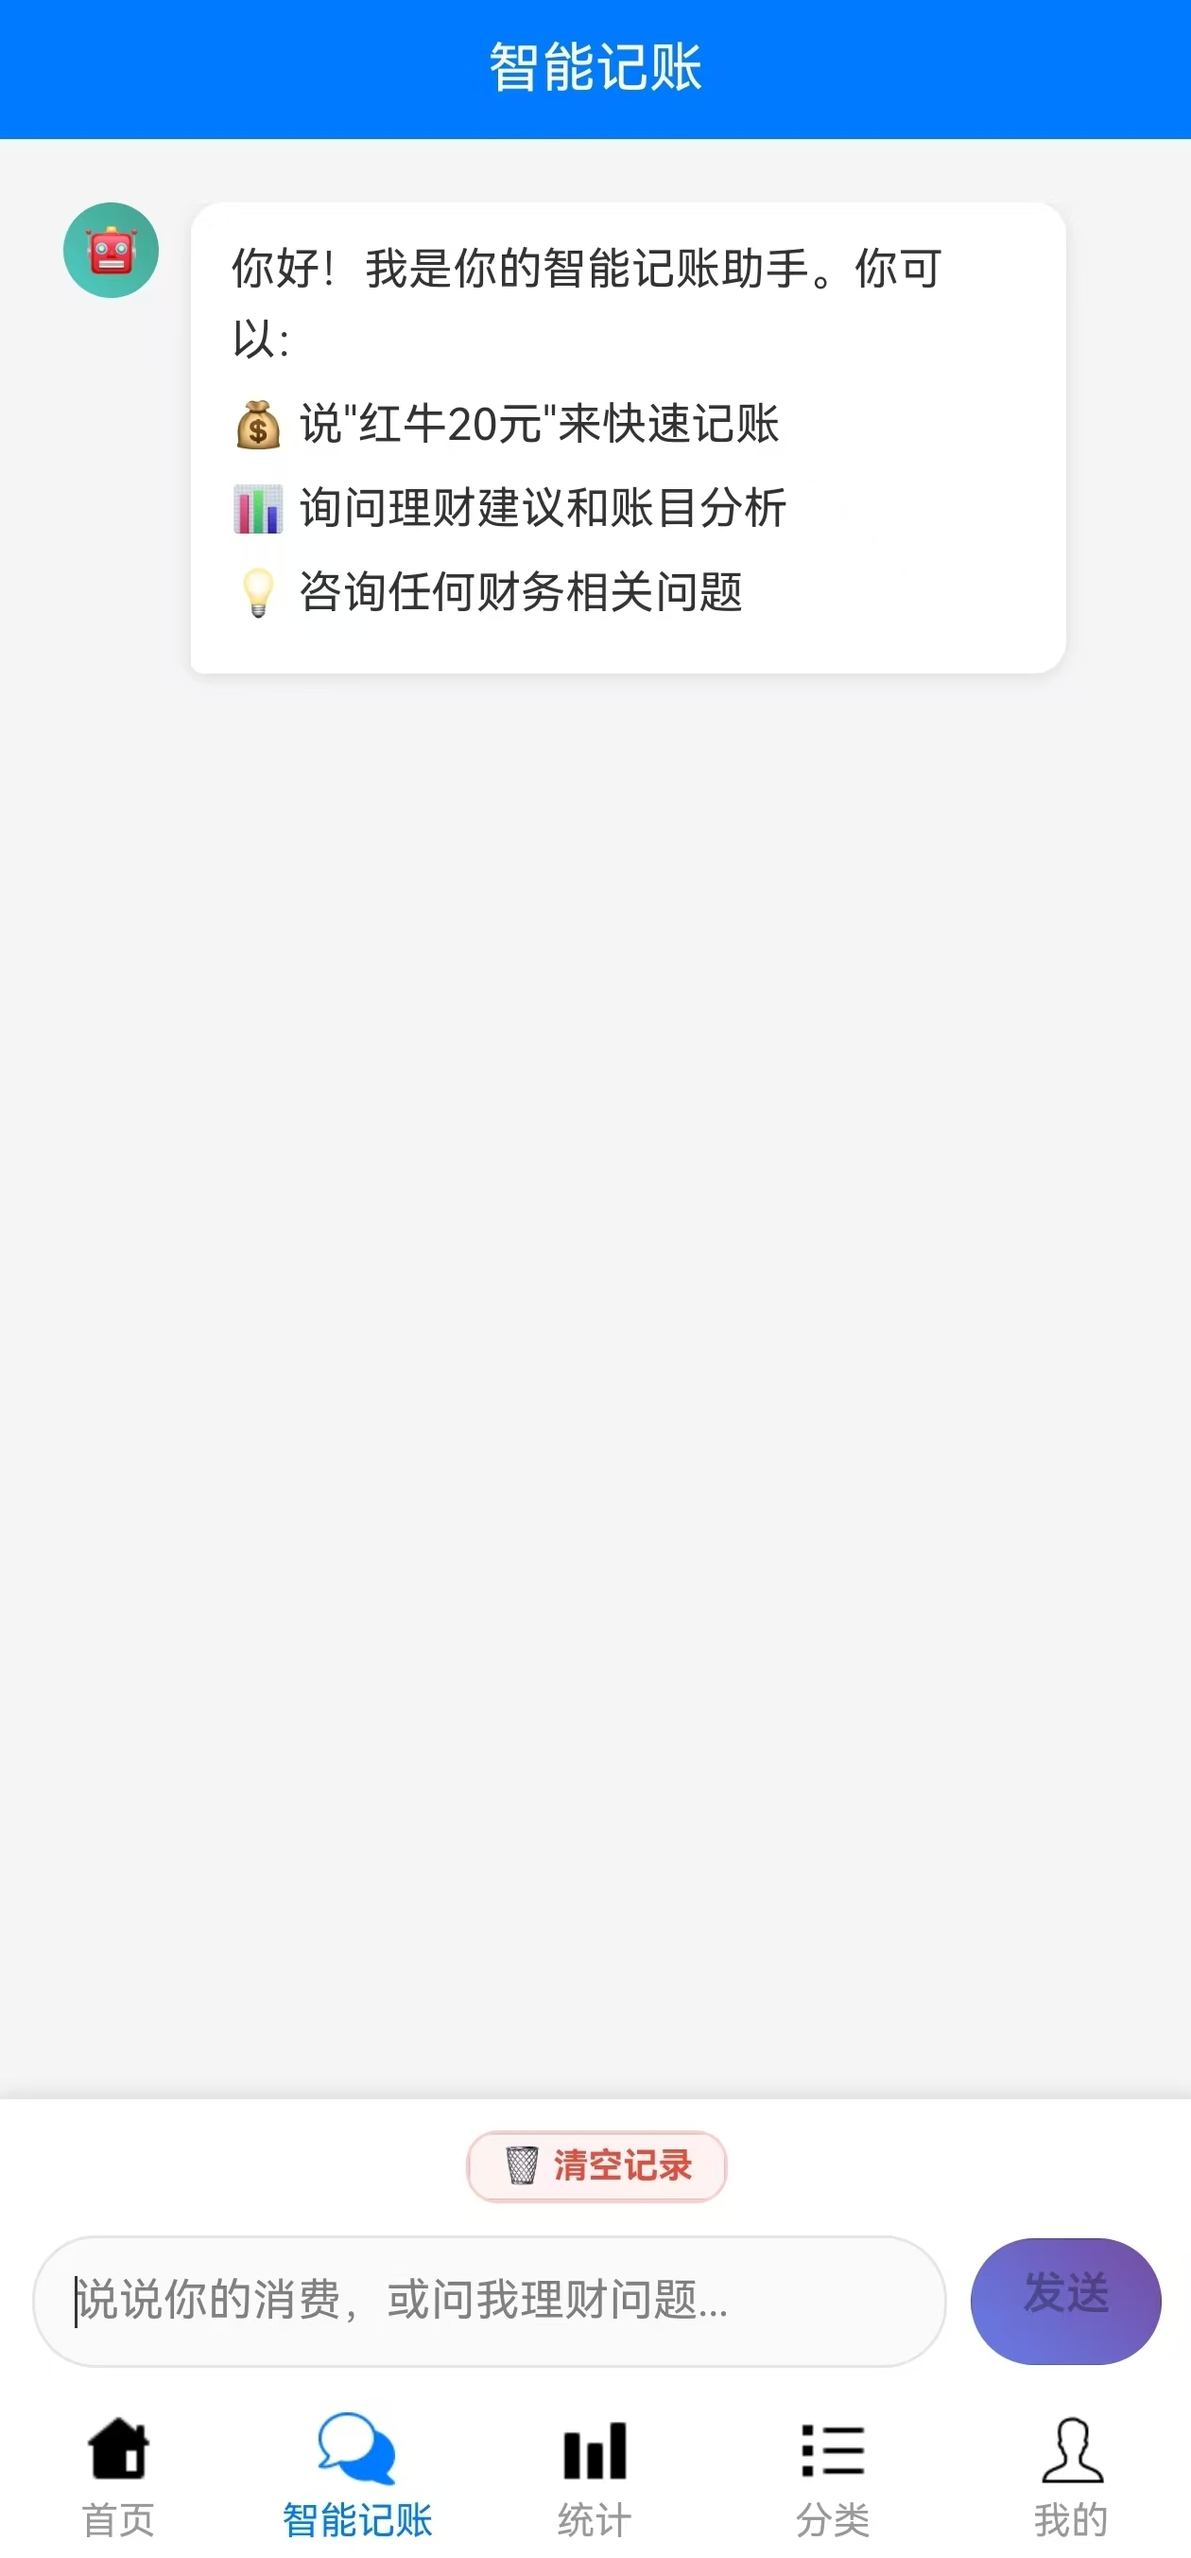
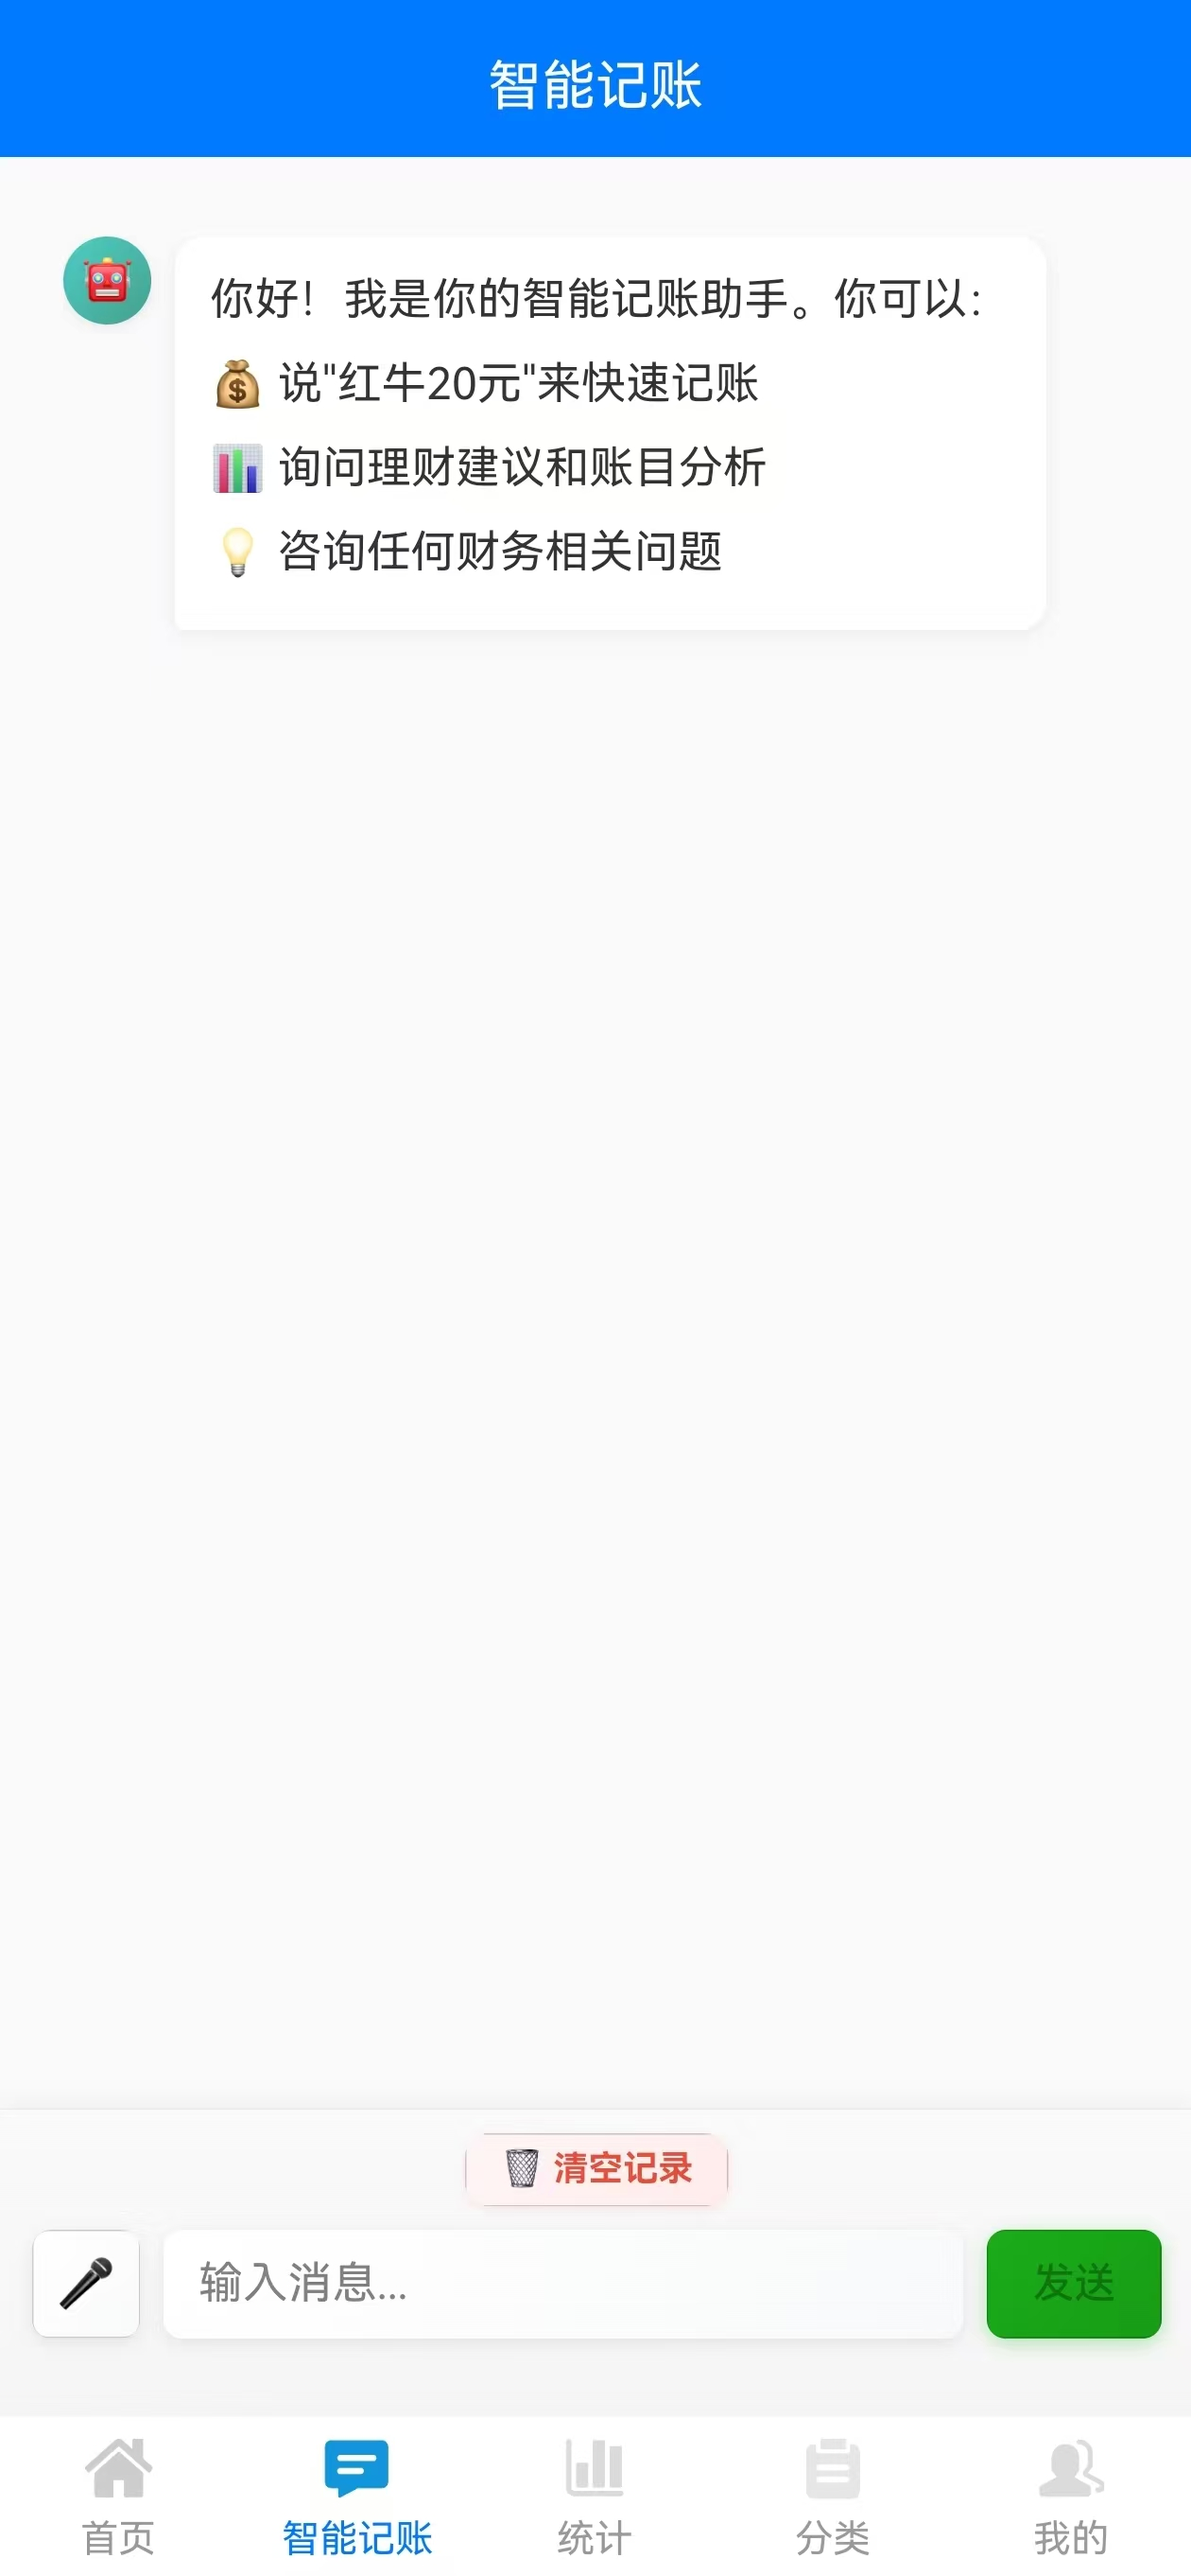
更新说明文档

diff --git a/README.md b/README.md
@@ -31,6 +31,7 @@
 - ✅ 精美UI设计
 - 🆕 **AI智能记账** - 语音/文字输入自动识别记账信息
 - 🆕 **智能体配置** - 自定义AI模型和提示词
+- 🆕 **语音识别** - 支持按住说话功能，自动转换语音为文字
 
 ---
 
@@ -44,7 +45,8 @@
 - 🎨 **精美界面** - 渐变色设计，流畅动画效果
 - 🤖 **AI智能记账** - 自然语言输入，智能解析记账信息
 - ⚙ **智能体配置** - 支持自定义AI模型接口和提示词
-- 🎯 **丰富图标库** - 20+图标，支持自定义分类图标
+- � **语音识别** - 支持按住说话，语音转文字记账
+- �🎯 **丰富图标库** - 20+图标，支持自定义分类图标
 
 ## 🚀 技术栈
 
@@ -53,6 +55,7 @@
 - **存储**: 本地存储 (localStorage/Storage API)
 - **UI**: 自定义组件 + CSS3 动画
 - **AI集成**: OpenAI API / 兼容接口
+- **语音识别**: 字节跳动火山引擎语音识别服务
 - **智能解析**: 自然语言处理 + JSON结构化数据
 
 ## 📱 页面结构
@@ -68,7 +71,8 @@ pages/
 ├── statistics/     # 统计分析页面
 ├── profile/        # 个人中心/设置页面
 ├── chat/           # AI智能记账聊天页面
-└── ai-config/      # AI智能体配置页面
+├── ai-config/      # AI智能体配置页面
+└── voice-config/   # 语音识别配置页面
 ```
 
 ## 🛠 安装运行
@@ -132,6 +136,13 @@ pages/
 - 支持自定义系统提示词
 - 连接测试和状态监控
 
+### 语音识别配置
+- 支持字节跳动火山引擎语音识别服务
+- 可配置App ID和Access Key
+- 支持多种识别模型选择
+- 可开启标点符号、数字转换等功能
+- 内置演示模式，无需配置即可体验
+
 ### 数据统计
 - 月度/年度收支统计
 - 分类占比饼状图
@@ -147,19 +158,37 @@ pages/
 
 ### ✨ 核心特性
 - **自然语言输入**: 支持"今天早餐20元，打车15元"等自然语言记账
+- **语音输入支持**: 按住说话按钮，自动将语音转换为文字后智能解析
 - **智能解析**: 自动识别金额、分类、备注和时间信息
 - **批量处理**: 一次输入多笔记账，智能分离处理
 - **分类智能匹配**: 优先使用现有分类，必要时自动创建新分类
 - **图标自动匹配**: 新分类自动匹配合适的图标
 
 ### 🔧 配置说明
+
+#### AI智能体配置
 1. **进入设置**: 个人中心 → AI智能体配置
 2. **API配置**: 输入OpenAI或兼容接口的API地址和密钥
 3. **模型选择**: 支持GPT-3.5、GPT-4等主流模型
 4. **提示词自定义**: 可使用预设模板或自定义智能体指令
 5. **测试连接**: 确保API配置正确
 
+#### 语音识别配置
+1. **进入设置**: 个人中心 → 语音识别配置
+2. **选择模式**: 
+   - **演示模式**: 无需配置，可直接体验语音录制功能
+   - **火山引擎模式**: 需配置API密钥，支持真实语音识别
+3. **API配置**: 输入字节跳动App ID和Access Key
+4. **识别设置**: 
+   - 选择识别模型（bigmodel/general）
+   - 开启标点符号识别
+   - 开启数字转换功能
+   - 开启说话人识别（可选）
+5. **测试配置**: 确保语音识别服务正常
+
 ### 💬 使用示例
+
+#### 文字输入示例
 ```
 用户输入: "今天中午吃饭花了35元，下午买衣服200元"
 AI解析: 
@@ -167,9 +196,44 @@ AI解析:
 - 支出 200元 购物 备注:买衣服 时间:今天下午
 ```
 
+#### 语音输入示例
+```
+用户语音: "早上打车花了二十五块钱"
+语音识别: "早上打车花了二十五块钱"
+AI解析: 
+- 支出 25元 交通 备注:打车 时间:早上
+```
+
 ### 🎯 智能体模板
 - **记账助手**: 专门解析记账信息，严格按照JSON格式返回
 - **财务顾问**: 除记账外，还能提供理财建议和财务分析
+
+## 🎙 语音识别功能
+
+### ✨ 核心特性
+- **按住说话**: 在聊天页面长按语音按钮开始录音
+- **实时识别**: 松开按钮自动识别并转换为文字
+- **智能解析**: 语音转文字后自动进行记账信息解析
+- **多种模式**: 支持演示模式和真实识别模式
+- **高准确率**: 基于字节跳动火山引擎语音识别技术
+
+### 🔧 配置选项
+- **识别模型**: bigmodel（大模型）/ general（通用模型）
+- **标点符号**: 自动添加标点符号
+- **数字转换**: 将语音中的数字词汇转换为阿拉伯数字
+- **说话人识别**: 多人对话场景下的说话人区分
+
+### 🚀 使用流程
+1. **配置服务**: 个人中心 → 语音识别配置 → 输入API密钥
+2. **开始录音**: 聊天页面 → 切换到语音模式 → 按住说话按钮
+3. **语音输入**: 清晰说出记账信息，如"今天午餐花了30元"
+4. **自动识别**: 松开按钮，系统自动识别语音并转换为文字
+5. **智能解析**: AI自动解析记账信息并生成记录
+
+### 🎪 演示模式
+- **零配置体验**: 无需API密钥即可体验语音录制流程
+- **功能完整**: 支持语音录制、界面交互等所有功能
+- **快速上手**: 新用户可快速了解语音记账的操作方式
 
 ## 🎨 图标管理系统
 
@@ -217,6 +281,10 @@ AI解析:
 
 <img src="app/images/智能体配置.jpg" width="300" alt="智能体配置页面">
 
+**语音识别配置 - 按住说话设置**
+
+<img src="app/images/语音识别配置.jpg" width="300" alt="语音识别配置页面">
+
 **统计分析**
 
 <img src="app/images/统计.jpg" width="300" alt="统计页面">
@@ -246,7 +314,8 @@ AI解析:
 - 🎯 **直观图表** - 清晰的数据可视化
 - 🔄 **一致体验** - 统一的设计语言
 - 🤖 **智能交互** - AI聊天界面，自然语言记账
-- 🎭 **图标丰富** - 20+emoji图标，涵盖各行各业
+- � **语音交互** - 按住说话，语音转文字记账功能
+- �🎭 **图标丰富** - 20+emoji图标，涵盖各行各业
 
 ## 📄 许可证
 
